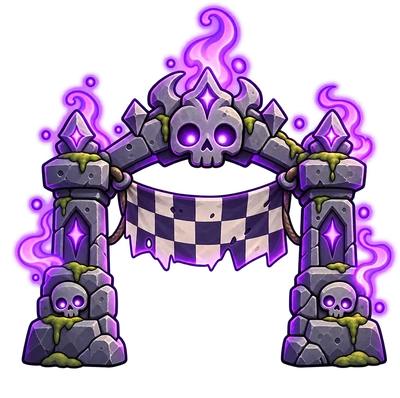
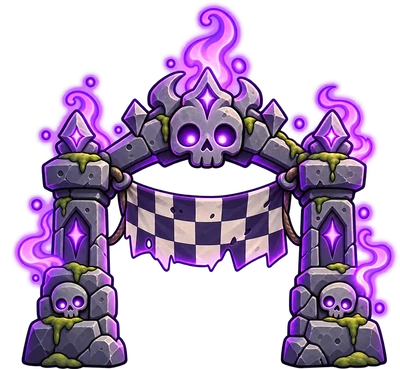
Sit the spawn tombstone and finish gate flush on the ground; make their effects obvious
Both images had a band of faint glow below the stone, so they looked like
they hovered; they're now cropped to their solid bottom edge. The gate also
loses its green outline, which wrapped under the base. Violet lightning now
crackles on both objects at all times (builder and runs), the spawn burst
is bigger, and the gate's pillar gems flare on a clear.

diff --git a/src/client/game/systems/Juice.ts b/src/client/game/systems/Juice.ts
@@ -231,6 +231,7 @@ export const PIXEL_FX_SHEETS: readonly {
   { key: 'spawn-warp', frameWidth: 128, frameHeight: 128, frameRate: 20 }, // scifi_warp_003 blue
   { key: 'spawn-burst', frameWidth: 96, frameHeight: 96, frameRate: 15 }, // lightning_burst_003 violet
   { key: 'finish-blast', frameWidth: 96, frameHeight: 96, frameRate: 15 }, // stylized_explosion_002 violet
+  { key: 'arcane-crackle', frameWidth: 64, frameHeight: 64, frameRate: 15 }, // lightning_burst_001 violet
   { key: 'firework-green', frameWidth: 96, frameHeight: 96, frameRate: 15 }, // round_firework_burst_001 green
   { key: 'firework-yellow', frameWidth: 96, frameHeight: 96, frameRate: 15 }, // round_firework_burst_002 yellow
   { key: 'curse-strike', frameWidth: 128, frameHeight: 128, frameRate: 20 }, // lightning_strike_001 violet
@@ -292,6 +293,40 @@ export function attachPickupShimmer(
   const shimmer = scene.add.sprite(x, y, 'pickup-shimmer', 0);
   shimmer.play('pickup-shimmer');
   return shimmer;
+}
+
+// Crackles of violet lightning at random spots on the spawn tombstone and
+// finish gate, one every ARCANE_CRACKLE_MIN_MS..MAX_MS, for as long as the
+// target lives. Editors destroy and redraw their sprites on every change,
+// so the loop checks `target.active` and ends itself once it's gone.
+const ARCANE_CRACKLE_MIN_MS = 500;
+const ARCANE_CRACKLE_MAX_MS = 1100;
+// Crackles land in the target's upper part (its art), not the bottom edge.
+const ARCANE_CRACKLE_TOP_FRACTION = 0.85;
+
+export function attachArcaneCrackle(
+  scene: Phaser.Scene,
+  target: Phaser.GameObjects.Sprite | Phaser.GameObjects.Image,
+  scale: number
+): void {
+  const next = (): void => {
+    scene.time.delayedCall(
+      Phaser.Math.Between(ARCANE_CRACKLE_MIN_MS, ARCANE_CRACKLE_MAX_MS),
+      () => {
+        if (!target.active) return;
+        const bounds = target.getBounds();
+        playPixelFx(
+          scene,
+          'arcane-crackle',
+          Phaser.Math.FloatBetween(bounds.left + bounds.width * 0.15, bounds.right - bounds.width * 0.15),
+          Phaser.Math.FloatBetween(bounds.top, bounds.top + bounds.height * ARCANE_CRACKLE_TOP_FRACTION),
+          { scale, angle: Phaser.Math.Between(0, 3) * 90, depth: target.depth + 0.01 }
+        );
+        next();
+      }
+    );
+  };
+  next();
 }
 
 // Pixel-art blood burst centered on (x, y).
@@ -559,7 +594,11 @@ export function fitHyperspeedTrail(
 // Squash pulses on the finish gate, one per victory-dance beat
 // (DANCE_FRAME_MS), each weaker than the last.
 const FINISH_PULSES = 3;
-const FINISH_BLAST_SCALE = 1;
+const FINISH_BLAST_SCALE = 1.6;
+// The gem on top of each pillar, as fractions of the gate's width/height
+// from its bottom-center origin; both flare with violet lightning on a clear.
+const FINISH_GEM_DX = 0.32;
+const FINISH_GEM_DY = 0.66;
 const FINISH_SPARK_COLOR = 0xc77dff;
 
 // Puts the finish gate back at its resting size. Exported so GameScene can
@@ -595,6 +634,15 @@ export function playFinishGateAnimation(
     depth: sprite.depth + 0.01,
   });
   burstParticles(scene, sprite.x, openingY, FINISH_SPARK_COLOR, 18);
+  for (const side of [-1, 1]) {
+    playPixelFx(
+      scene,
+      'spawn-burst',
+      sprite.x + side * sprite.displayWidth * FINISH_GEM_DX,
+      sprite.y - sprite.displayHeight * FINISH_GEM_DY,
+      { scale: 1.2, depth: sprite.depth + 0.01 }
+    );
+  }
 
   scene.tweens.chain({
     targets: sprite,

diff --git a/src/client/game/scenes/GameScene.ts b/src/client/game/scenes/GameScene.ts
@@ -62,6 +62,7 @@ import { Player } from '../entities/Player';
 import { getRequestedLevelId } from '../levelSelection';
 import { takePrefetchedLevel } from '../levelPrefetch';
 import {
+  attachArcaneCrackle,
   burstParticles,
   playFinishGateAnimation,
   playPixelFx,
@@ -78,7 +79,7 @@ const SPAWN_WARP_GROUND_Y = 0.95;
 // The spawn-burst lightning goes off over the tombstone's glowing glyph,
 // this far up its height.
 const SPAWN_BURST_HEIGHT = 0.55;
-const SPAWN_BURST_SCALE = 1.4;
+const SPAWN_BURST_SCALE = 2.2;
 // Frames 0-3 are the bolt dropping; frame 4 is where it hits the floor and
 // splashes. spawn-warp plays at 20fps (Juice.PIXEL_FX_SHEETS).
 const SPAWN_WARP_LAND_FRAME = 4;
@@ -524,11 +525,12 @@ export class GameScene extends Scene {
 
     // The spawn tombstone the player rises from — above the scrim, behind
     // the player and every level object.
-    this.add
+    const tombstone = this.add
       .image(this.spawn.x, this.spawn.y, 'spawn-marker')
       .setOrigin(0.5, 1)
       .setScale(SPAWN_TOMBSTONE_HEIGHT_PX / this.textures.getFrame('spawn-marker').height)
       .setDepth(-0.25);
+    attachArcaneCrackle(this, tombstone, 0.8);
 
     // waiting=true: hold at spawn (idle, no auto-run) until the first tap
     // — update() starts the timer and hides the prompt once Player itself

diff --git a/src/client/game/objects/ObjectRegistry.ts b/src/client/game/objects/ObjectRegistry.ts
@@ -16,6 +16,7 @@ import {
   PLATFORM_DISPLAY_HEIGHT_PX,
   SPAWN_ICON_SIZE,
 } from '../constants';
+import { attachArcaneCrackle } from '../systems/Juice';
 
 export type ObjectCategory =
   'solid' | 'hazard' | 'finish' | 'spawn' | 'powerup' | 'unsupported';
@@ -331,6 +332,7 @@ export function renderLevelObject(
   } else if (object.type === 'finish') {
     // Aspect preserved (unlike bat's forced squash).
     sprite.setScale(FINISH_DISPLAY_HEIGHT_PX / sprite.height);
+    attachArcaneCrackle(scene, sprite, 1);
   }
   scene.physics.add.existing(sprite, !DYNAMIC_BODY_TYPES.has(object.type));
 
@@ -368,9 +370,8 @@ export function renderSpawnMarker(
   x: number,
   y: number
 ): Phaser.GameObjects.Sprite {
-  return scene.add
-    .sprite(x, y, 'spawn-marker')
-    .setOrigin(0.5, 1)
-    .setAlpha(0.85)
-    .setDisplaySize(SPAWN_ICON_SIZE, SPAWN_ICON_SIZE);
+  const marker = scene.add.sprite(x, y, 'spawn-marker').setOrigin(0.5, 1).setAlpha(0.85);
+  marker.setScale(SPAWN_ICON_SIZE / marker.height);
+  attachArcaneCrackle(scene, marker, 0.6);
+  return marker;
 }

diff --git a/src/client/game/systems/LevelLoader.ts b/src/client/game/systems/LevelLoader.ts
@@ -272,8 +272,10 @@ export function loadLevel(
         finishes.add(sensor);
         // Behind the player (who runs through the arch), in front of the
         // spawn tombstone and background.
+        // No applyOutlineGlow here: the art has its own purple glow, and an
+        // outline wrapping under the base made the gate look like it was
+        // floating above the ground.
         rendered.setDepth(-0.1);
-        applyOutlineGlow(rendered, 0x39ff88, 6);
         finishSprite = rendered;
         break;
       }
